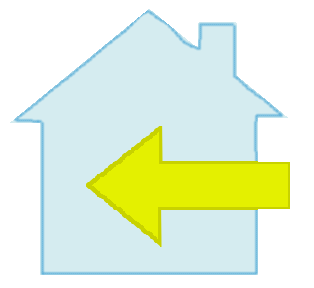
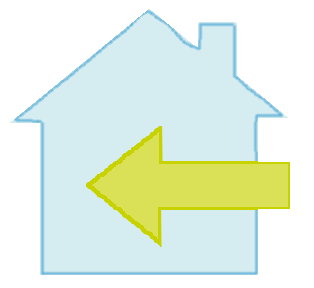
tiny

Changed region(s): [[0.2866, 0.4688, 0.9172, 0.8438]]

diff --git a/content/main.html b/content/main.html
@@ -298,7 +298,7 @@
 
 <dialog id="elDialog">
     <div id="dlgHead">
-        <span>{{i18n.i18n.infobox_header_homepage}}</span>
+        <span>{{i18n.infobox_header_homepage}}</span>
         <button id="btnDlgClose">×</button>
     </div>
     <div id="dlgCnt">

diff --git a/lib/trls.py b/lib/trls.py
@@ -131,8 +131,8 @@ trlsRaw = [
     },
     {
         "infobox_header_homepage":    {
-            "de": "Mehr",
-            "en": "More",
+            "de": "Mehr Info",
+            "en": "More info",
         },
     },
 
